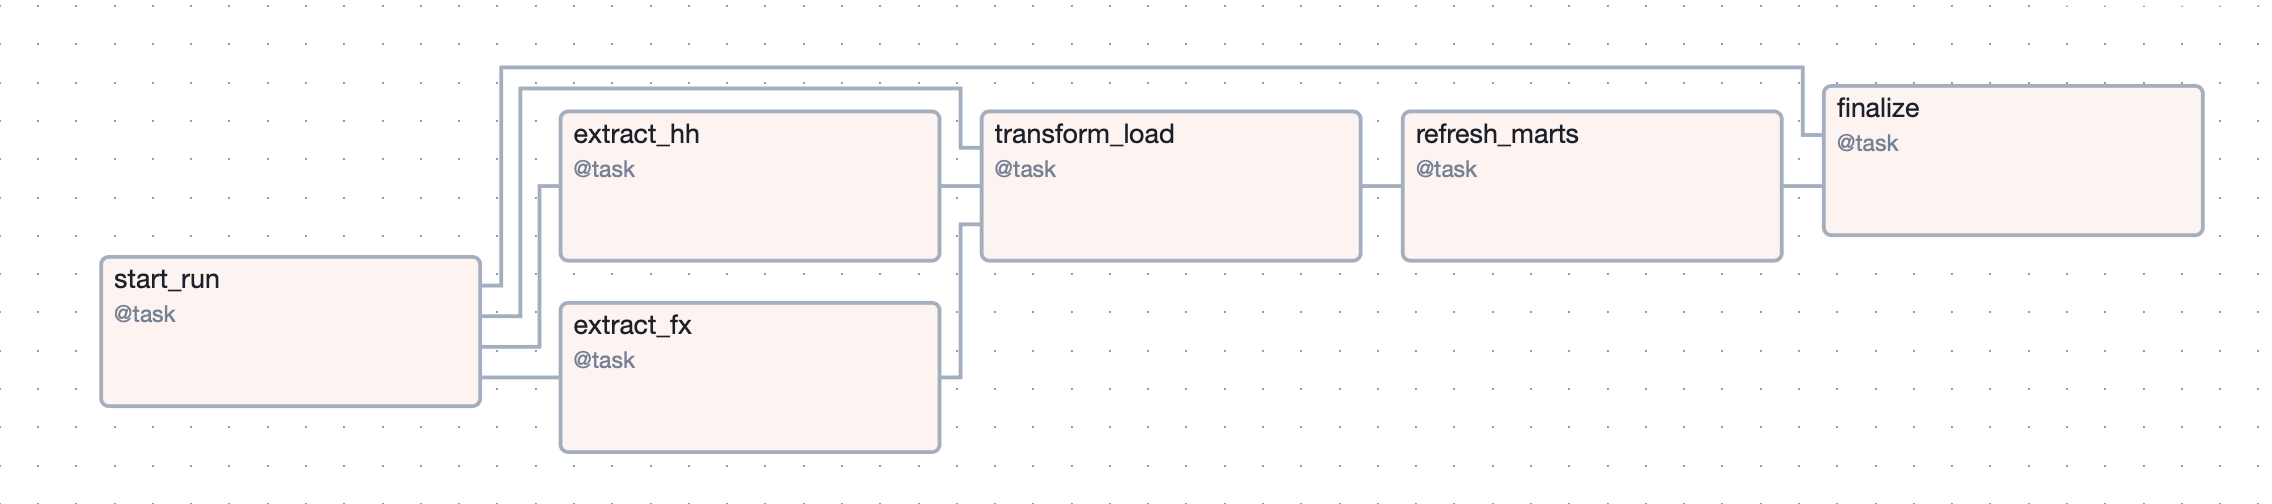
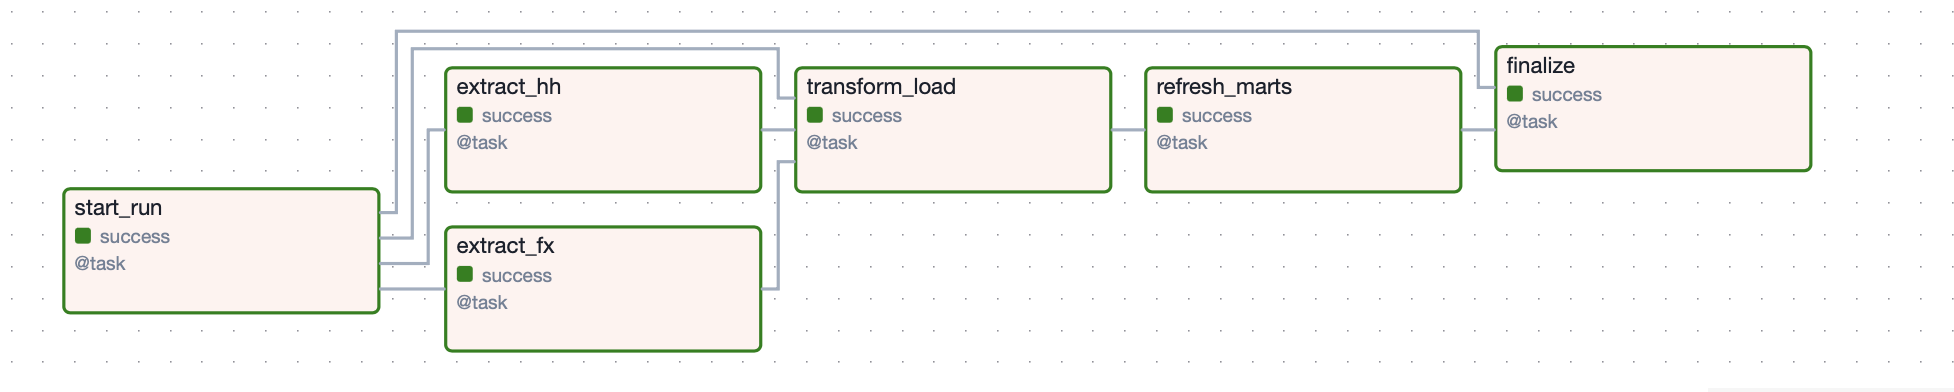
Live results, DAG run screenshot

diff --git a/README.md b/README.md
@@ -172,6 +172,8 @@ Monthly salary in KZT (midpoint of the range), roles with at least 5 stated sala
 
 Read these as a snapshot, not a trend. Only active postings are returned, so earlier weeks are undercounted, and the weekly series becomes meaningful as the daily DAG accumulates history. Samples per role are small, hh files data engineers mostly under the data scientist role, and `Python` and `Java` shares are partly shaped by the search queries.
 
+The second run came from the Airflow DAG with a 2-day window: 114 records extracted, 0 new versions, 114 unchanged. Re-running over data that has not changed writes nothing, so history grows only when a vacancy actually changes. Daily runs show a lower skills coverage (60.5%) because the full page with `key_skills` is fetched only for vacancies not seen before, while known ones keep the skills already stored.
+
 ## Example results (demo data)
 
 Pipeline report for the two demo runs (stored in `ops.pipeline_run.stats`, exposed at `GET /quality/runs`):
